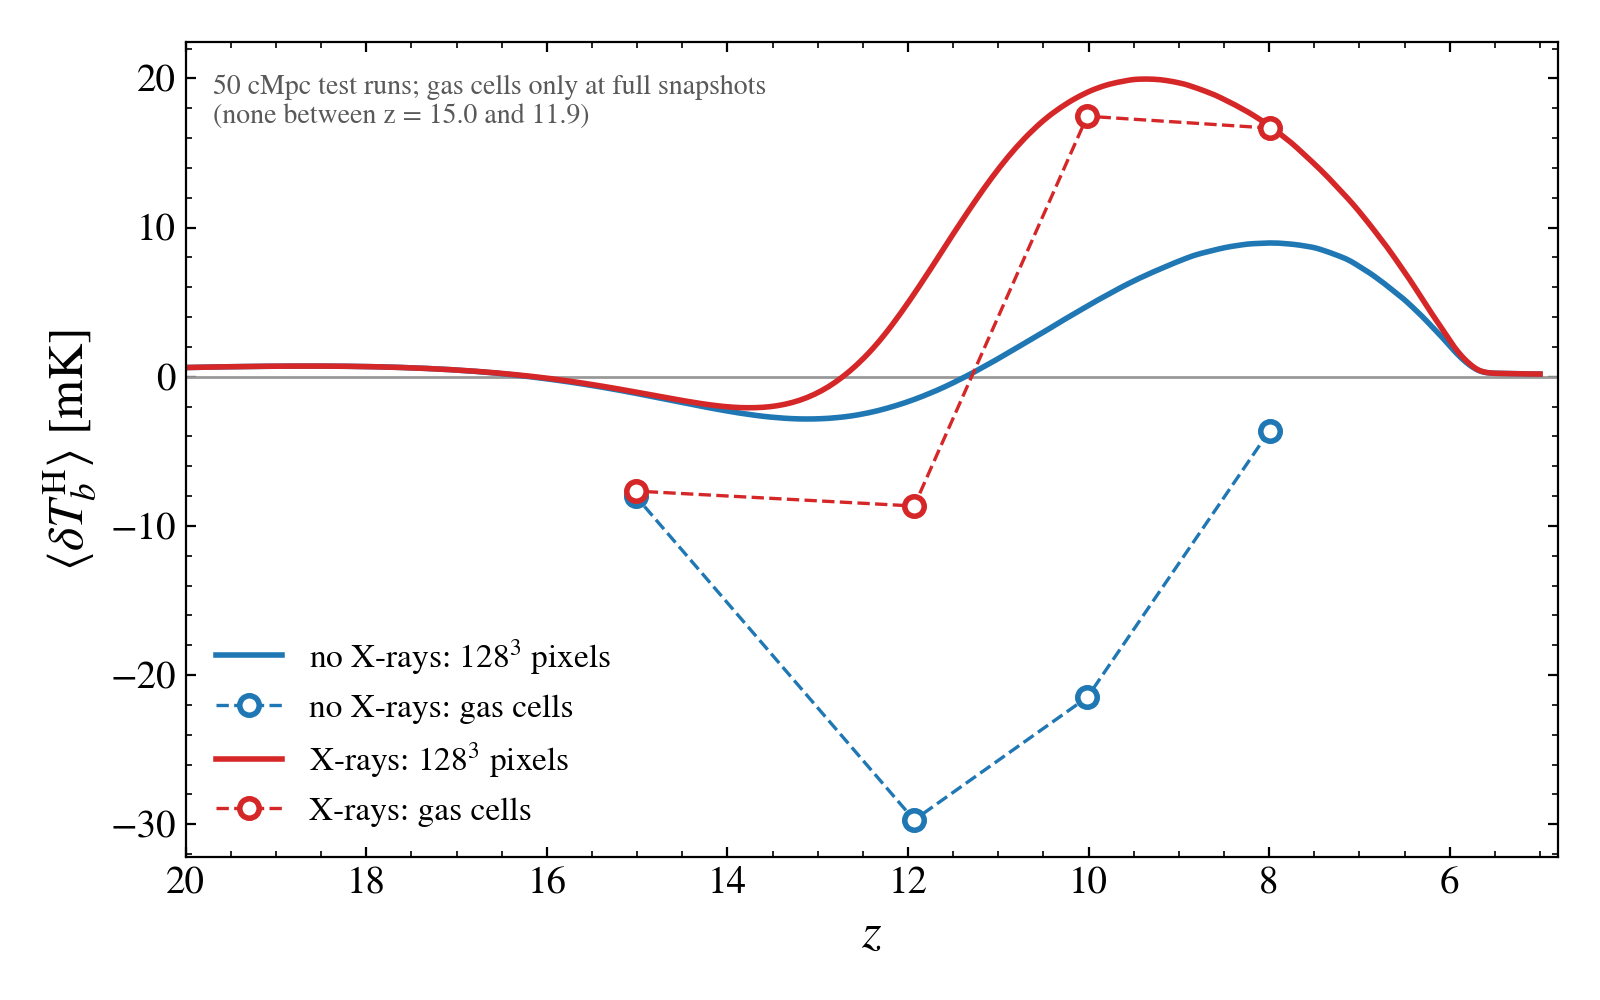
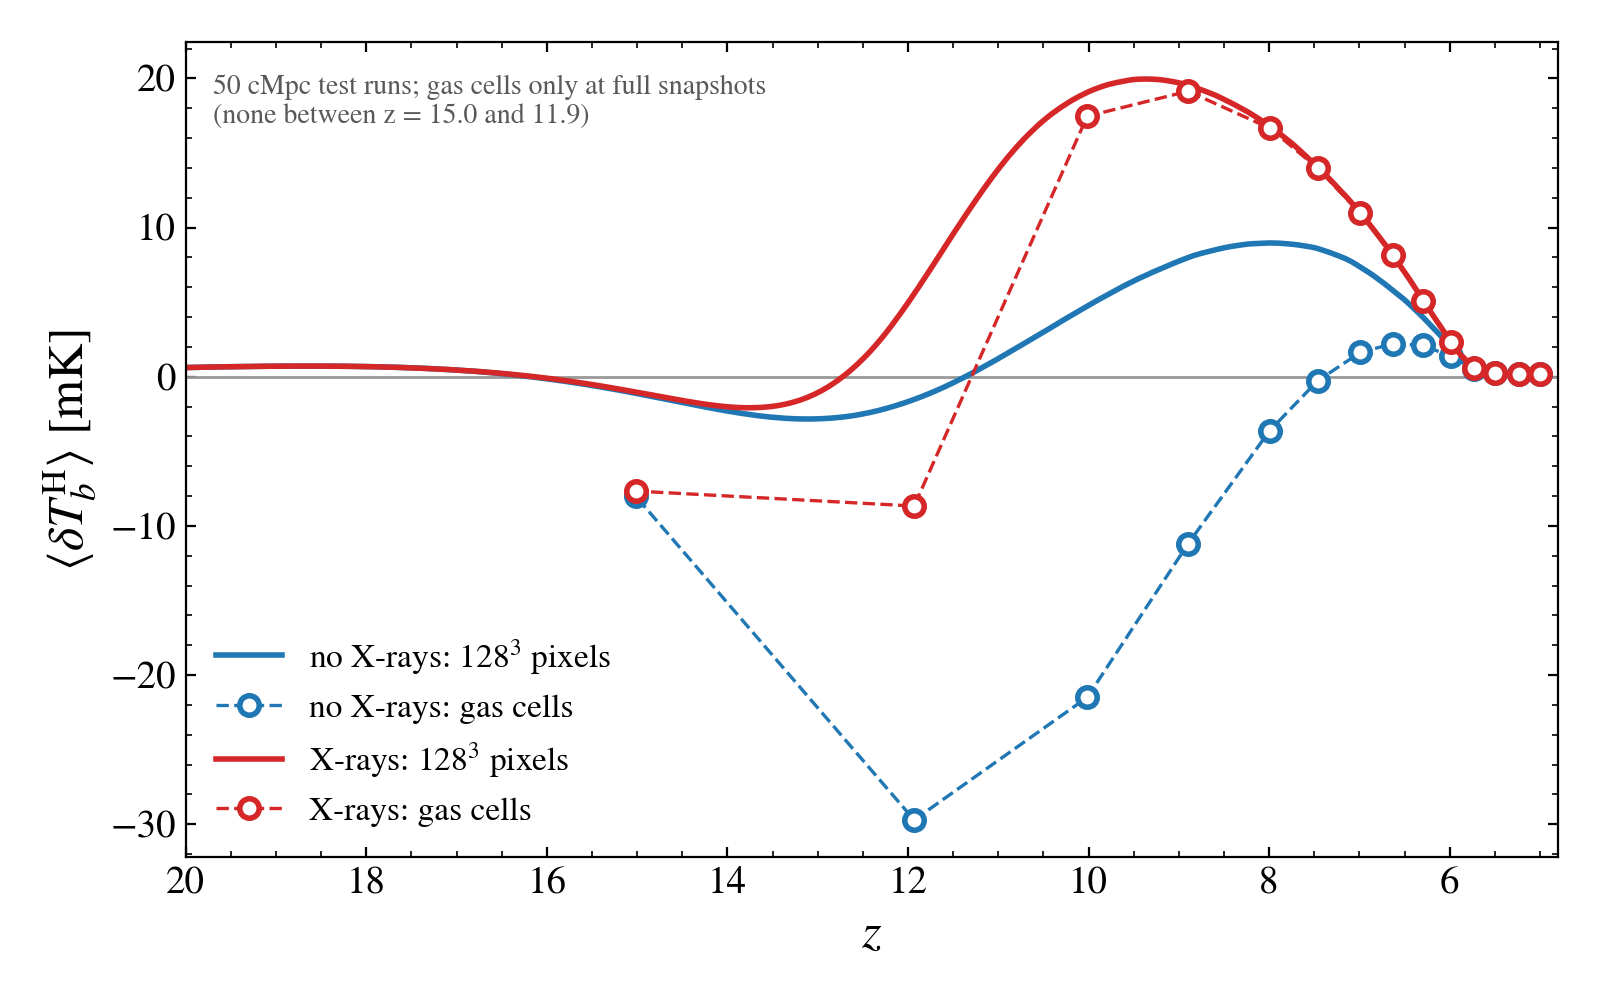
cell level updates

diff --git a/xray/plot_cells_global_xray.py b/xray/plot_cells_global_xray.py
@@ -4,7 +4,8 @@ plot_cells_global_xray.py
 21 cm global signal of the two 50 cMpc test runs (with / without MRT_XRAY): the 128^3 pixel maps at every render
 (data/compare_xray.csv, compare_xray.py) as lines, and the gas-cell level (cells_Tb_xray.py: mean_cells_cell, tau_GP
 from the cell) at every full snapshot that has a $BASE/<run>/cells_Tb/cells_Tb_NNN.npz, as markers. Run on ORCD to read
-the npz files; without them (e.g. on a laptop) it falls back to the four pilot values of NOTES.md (job 29467469).
+the npz files; without them (e.g. on a laptop) it reads data/cells_Tb_xray_global.csv (the gas-cell means of all 14 full
+snapshots per run, taken from the task logs of jobs 29467469 and 29598529), else the four pilot values of NOTES.md.
 Writes data/xray_cells_global.png. Quick look (user, 2026-11-18).
 
   python plot_cells_global_xray.py [--base /orcd/data/mvogelsb/004/chcho/xray]
@@ -45,6 +46,11 @@ def main():
         ax.plot(df["z"], df[col], color=c, lw=2, label=f"{lab}: $128^3$ pixels")
         cc = cells(a.base, run)
         src = "npz"
+        tab = os.path.join(HERE, "data", "cells_Tb_xray_global.csv")
+        if not cc and os.path.exists(tab):
+            t = pd.read_csv(tab)
+            t = t[t["run"] == run]
+            cc, src = dict(zip(t["z"], t["cells_mK"])), "data/cells_Tb_xray_global.csv"
         if not cc:
             cc, src = PILOT[run], "NOTES.md pilot values"
         zc = np.array(sorted(cc)); tc = np.array([cc[z] for z in zc])

diff --git a/JALPHA_NOTES.md b/JALPHA_NOTES.md
@@ -320,7 +320,7 @@ Test, on a mock render (N = 32) against an independent Python calculation:
 8. **21 cm downstream on the SPIN_MODEL 1 maps (started 2026-11-16, user):** steps (1) H VIDs → (2) H light cone → (3) light-cone PS → (4) notebooks (`VID.ipynb`, `maps.ipynb`, `fan_diagram.ipynb`) and figures. (1) `run_vid.sh` now takes LINE / MAPS / OUT from the environment, H defaulting to `H_real_wf` → `VID/H_wf` (old VIDs kept in `VID/H`; commit d4f142b); job 29349931, **done** (8 tasks COMPLETED 0:0, 20–26 min each, no failures; 610 files = 305 × VID + stats; `stats_H.csv` 305 snapshots, z = 29.43–3.00); new vs old (VID/H): mean +0.6 / +7.1 / +17.0 / +9.8 / +2.5 / −0.3 / −0.2 / 0.0% at z = 19.9 / 17.0 / 15.0 / 14.0 / 13.0 / 12.0 / 10.0 / ≤ 8 (= the global-signal change), std −0.3 / −1.8 / −4.5 / −4.5 / −3.1 / −1.2 / −0.1 / 0.0% (variance −9% at z ≈ 14–15, as Δ²), skewness +1.41 → +1.69 (z = 15), +0.39 → +0.57 (14), +0.03 → +0.13 (13), unchanged at z ≤ 10; BC +0.033 at most (z = 15). The paper's H VID figures use z = 10–5 (`VID.ipynb` cells 4, 6: snapshots 156–406), where old and new agree to ≤ 0.2%: they will not change visibly). (2) H light cone: job 29356253 (`OUT_DIR=.../lightcone_wf LINES=H`, spin model 1; He stays in `lightcone/`; 6.4 TB free); pending on 2026-11-16 afternoon: ReqNodeNotAvail, reserved for maintenance; starts by itself afterwards, resumable). **Done 2026-11-17** (COMPLETED 0:0, 10 h 37 min, H only; 5896 / 5896 slices; `lightcone_wf/lightcone_dTb_H.hdf5`): band means [mK] 0.2127 (z = 3.5), 0.16419 (4.5), 0.63692 (5.5), 7.0363 (6.5), 14.313 (7.5), 18.866 (8.5), 20.586 (9.5), 18.119 (11), 6.8875 (13), 1.4106 (15); vs the SPIN_MODEL 0 cone: identical at z = 3.5 (0.2127), +7.5% at z = 15 (1.3118 → 1.4106; the maps: +17%). (3) **Light-cone PS on the SPIN_MODEL 1 cone: done 2026-11-18** (job 29490597, COMPLETED, 43 min, MaxRSS 26.8 GB; `lightcone_wf/lightcone_ps_H.hdf5`; all 10 bands, both depths, against `H_real_wf`). Cone / maps, median of the bins (depth 150, k = 0.3–1 | depth 338.3, k = 0.3–1 | depth 150, k > 3): z = 3.5–9.5 identical to the SPIN_MODEL 0 run to all printed digits (0.901 | 0.936 | 0.945 … 1.007 | 1.044 | 0.927); z = 11: 0.960 | 0.965 | 0.920 (before 0.958 | 0.965 | 0.919); z = 13: 0.930 | 0.906 | 0.852 (0.920 | 0.894 | 0.845); z = 15: 0.976 | 1.044 | 0.858 (0.963 | 1.029 | 0.849). So the cone's Δ² follows the maps' SPIN_MODEL 1 change to ≤ 1.5% in the ratio; the reading of the first run (pixel smoothing at k > 3, light-cone effect at depth 338.3 and low k) is unchanged. The cone / maps check of the band means (`check_lightcone_tb.py`) was not run (optional; user, 2026-11-17). (4) **Notebooks repointed (2026-11-18), not yet rerun:** `fan_diagram.ipynb`: **the paper fan figure is cell 1's `plot_rlc` (`rlc_fan.png`; user, 2026-11-18); new cell 20 = cell 1 unchanged except the δT_b block**, which reads the production cones (δT_b^H `lightcone_wf`, stops unless `spin_model` = 1; δT_b^He `lightcone`) at the same row (SliceIndex) and slices (edge nearest z = 20 to the end of the inner run), checked edge by edge, instead of recomputing from `LUMINA_ALL.csv` with J(z)(1+δ); saves `rlc_fan_prod.png`. Mock-tested: the plotted δT_b equals the files' row; the layout renders. (Cell 1's own quirk, kept: the concatenated edges hold the shared z = 4.753 edge twice and the last edge is dropped, so the inner strip is drawn one slice, ~1.3 cMpc/h, outwards.) Cell 18 (2026-10-27, radius linear in z) is not the paper figure; `VID.ipynb` reads `H_real_wf` and `VID/H_wf`; `maps.ipynb` reads `H_real_wf`. **3.46 cm maps from the gas cells (user, 2026-11-18):** `maps.ipynb` cell 7 now draws the gas-cell-level maps (`cell_test*/RIN_cell_He_NNN.hdf5`, 136 from `cellmap_He_136.hdf5:dTb_cell`) at full snapshots 66, 80, 97, 116, 126, 136, 146, 158 (z = 8.00, 6.99, 5.99, 5.00, 4.50, 4.00, 3.50, 3.00; renders 209, 256, 326, 406, 452, 501, 582, 705, i.e. the 640³ panels' renders with 255 → 256 and 325 → 326), z from the files; same grid and index order as the production maps; mock-tested. New `maps.ipynb` cell 9 (user, 2026-11-18): x_HeII = `HeII_VolumeFraction` / y from the 640³ renders at the same renders (209, 256, 326, 406, 452, 501, 582, 705), the layout of the x_HI figure (cell 5), log scale 10⁻⁴–1 (`N_DECADES`), viridis, prints percentiles; renders, not gas cells, because x_HeII is a linear volume average (the gas-cell map would be the same up to the deposit scheme), unlike δT_b^He. Mock-tested (plotted field, clip, All-file fallback). Other He figures (PS, VID, light cone) are still the 640³ maps. The VID and map figures use snapshots 156–406 (z = 10–5), where SPIN_MODEL 1 changes δT_b by ≤ 0.5%: no visible change expected; the fan figure changes at z ≳ 12. Still on pre-production inputs (item 4): `visual.ipynb` and the other notebooks listed there. Before any `run_21cm.sh` job: `bash run_21cm.sh compile` once (stored compile flags).
 9. **Lumina's `MinGasTemp`: 5 K (checked 2026-11-16).** **Lumina: `MinGasTemp = 5` K too** (snapshot `Parameters` group, full snapshots 036 and 136, both runs; `InitGasTemp` 54.17 K; checked 2026-11-16; no param file found within depth 2 of the Flagship run directories). The X-ray test runs have the same floor, and at the gas-cell level ~33% of their neutral H I sits at it at z = 15 (`xray/NOTES.md`; the X-ray run with Lumina's model is identical to the no-X-ray run at z = 15). So the floor biases the coldest gas and the cosmic-dawn absorption warm in the main maps (§5); **decided 2026-11-16: option A** (§6.3; options given 2026-11-16: A, add the floor to the z ≳ 10 upper-limit statement; B, A plus ⟨δT_b⟩ at z = 15 from the 024 gas cells with the floored void cells at their adiabatic T, if `cells_T_024.npz` holds enough per-cell information). Estimate: at z = 15 the floored gas (~1/3 of the H I) absorbs 20–35% less than adiabatic gas would at full coupling; coupling there is partial, so the global effect is smaller (not computed); the floor binds mainly at z ≈ 13–17 in Lumina (X-rays heat the voids to 12–13 K by z = 12).
 10. **No-heating reference: INVALID, to be redone (user, 2026-11-16).** The user judged the existing analysis completely wrong: the per-pixel-anchor maps (`Tb_maps_prod/H_real_tkref1e-3_pix0`, jobs 26334741 + 26374968), the Eq. 27 version (job 25971016), their global tables (§7), the T_ref side of `check_ref_T.py`, and everything inferred from them (coupling strength from the reference / fully coupled ratio, trough position at z ≈ 9–10, the "−130 mK below the fiducial", bounds on a gas-cell δT_b). Do not cite or reason from them. Unaffected: the fiducial maps, fiducial pixel temperatures, the X-ray test gas-cell results (`xray/NOTES.md`). Method of the redo: user's decision, to be revisited.
-11. **Lumina gas-cell 21 cm δT_b (user, 2026-11-17), after the X-ray pilot (`xray/NOTES.md`: cells absorb ×7 more than 128³ pixels at z = 15, sign flip at z = 12 with X-rays, cells ≈ pixels at z ≤ 10 with X-rays).** `test_cells_Tb.py --line H` (spin model 1, τ_GP from the cell's n_HI), full snapshots 11, 17, 24, 36, 48 (z = 22.97, 18.31, 15.02, 11.93, 10.01). 36 and 48 match renders 114 and 156 exactly; 11, 17, 24 fall between renders (dz = −0.046, +0.074, −0.031; 0.4–1.2 Myr): **decided 2026-11-17 (user): J linear in z between the bracketing renders** (option B; new `--J-b`, `--render-snap-b`, `--max-dz`, commit 121b07a, mock-tested): 11: renders 19/20, weight of 20 0.201, J_20/J_19 1.402; 17: 45/44, 0.499, 0.864; 24: 73/74, 0.334, 1.083 (interpolated J vs the nearest render alone +8.1 / −6.8 / +2.8%; J files' Redshift attributes = render z; AGN J = 0). Pixel reference: the nearest render. Speed (timing task, 160-way split, cancelled): 5.8×10⁴ rows/s per task, 2.6× slower than the He scans (the T_S solve). **Jobs (He job layout, 32 tasks × 2 cores, slim grids, 64 cubes, `--time=48:00:00`, ~32 h per task):** 36 → 29490272, 48 → 29490479, 24 → 29490485, 17 → 29490486, 11 → 29490487; output `cell_test_H_NN`. Merges (`run_cells_merge.sh`, same settings, `--time=48:00:00`: the H ladder needs a T_S solve per level), queued `afterok` on each scan (2026-11-18): 36 → 29550185, 48 → 29550195, 24 → 29550199, 17 → 29550201, 11 → 29550202. Task 0 checks: axis order (0,1,2) at 0.084 / 0.073 against 0.002 (36 / 24); 24's J line as planned (weight of 74 0.3340, ⟨J_b⟩/⟨J_a⟩ 1.0826); projected 24 h (36) and 32 h (24) per task; all 160 tasks running by 2026-11-18. A first 160-task submission (29478737, 29489890/93/936) was cancelled: too many cores for the shared partition. **Added (user, 2026-11-18): full snapshots 066 (z = 7.995, render 209 exactly) and 057 (z = 8.897, render 184 exactly)**, production J at those renders, same settings (H, above, slim grids, 64 cubes, 32 tasks, 48 h, `ou_mki`), output `cell_test_H_66`, `cell_test_H_57`. Purpose: overlap with the 640³ maps where the plan switches from gas cells (z ≥ 10) to the maps (z ≤ 8): in the X-ray test run (Lumina's physics), cells / 64³ pixels (Lumina's pixel size) = 0.87 at z = 10.0, 0.985 at z = 8.0 (xray/NOTES.md). **Plan (user, 2026-11-18): Lumina 21 cm from the gas cells at high z and the 640³ maps at low z (saturated, T_S ≫ T_γ), the boundary set by these overlap snapshots and marked in the figures.** Why H scans are slower than He (5.8×10⁴ rows/s per task, ~30 h per task, 2.6× He): spin model 1 has no closed-form T_S (S̃_α and T_c depend on T_S), so every cell is solved by bisection in ln T_S (tb_physics.solve_ts_wf, to 10⁻¹⁴, ~50 steps); He's T_S is closed form. The merge's resolution ladder repeats the solve at each level.
+11. **Lumina gas-cell 21 cm δT_b (user, 2026-11-17), after the X-ray pilot (`xray/NOTES.md`: cells absorb ×7 more than 128³ pixels at z = 15, sign flip at z = 12 with X-rays, cells ≈ pixels at z ≤ 10 with X-rays).** `test_cells_Tb.py --line H` (spin model 1, τ_GP from the cell's n_HI), full snapshots 11, 17, 24, 36, 48 (z = 22.97, 18.31, 15.02, 11.93, 10.01). 36 and 48 match renders 114 and 156 exactly; 11, 17, 24 fall between renders (dz = −0.046, +0.074, −0.031; 0.4–1.2 Myr): **decided 2026-11-17 (user): J linear in z between the bracketing renders** (option B; new `--J-b`, `--render-snap-b`, `--max-dz`, commit 121b07a, mock-tested): 11: renders 19/20, weight of 20 0.201, J_20/J_19 1.402; 17: 45/44, 0.499, 0.864; 24: 73/74, 0.334, 1.083 (interpolated J vs the nearest render alone +8.1 / −6.8 / +2.8%; J files' Redshift attributes = render z; AGN J = 0). Pixel reference: the nearest render. Speed (timing task, 160-way split, cancelled): 5.8×10⁴ rows/s per task, 2.6× slower than the He scans (the T_S solve). **Jobs (He job layout, 32 tasks × 2 cores, slim grids, 64 cubes, `--time=48:00:00`, ~32 h per task):** 36 → 29490272, 48 → 29490479, 24 → 29490485, 17 → 29490486, 11 → 29490487; output `cell_test_H_NN`. Merges (`run_cells_merge.sh`, same settings, `--time=48:00:00`: the H ladder needs a T_S solve per level), queued `afterok` on each scan (2026-11-18): 36 → 29550185, 48 → 29550195, 24 → 29550199, 17 → 29550201, 11 → 29550202. Task 0 checks: axis order (0,1,2) at 0.084 / 0.073 against 0.002 (36 / 24); 24's J line as planned (weight of 74 0.3340, ⟨J_b⟩/⟨J_a⟩ 1.0826); projected 24 h (36) and 32 h (24) per task; all 160 tasks running by 2026-11-18. A first 160-task submission (29478737, 29489890/93/936) was cancelled: too many cores for the shared partition. **Added (user, 2026-11-18): full snapshots 066 (z = 7.995, render 209 exactly) and 057 (z = 8.897, render 184 exactly)**, production J at those renders, same settings (H, above, slim grids, 64 cubes, 32 tasks, 48 h, `ou_mki`), output `cell_test_H_66`, `cell_test_H_57`. Purpose: overlap with the 640³ maps where the plan switches from gas cells (z ≥ 10) to the maps (z ≤ 8): in the X-ray test run (Lumina's physics), cells / 64³ pixels (Lumina's pixel size) = 0.87 at z = 10.0, 0.985 at z = 8.0 (xray/NOTES.md). **Plan (user, 2026-11-18): Lumina 21 cm from the gas cells at high z and the 640³ maps at low z (saturated, T_S ≫ T_γ), the boundary set by these overlap snapshots and marked in the figures.** Why H scans are slower than He (5.8×10⁴ rows/s per task, ~30 h per task, 2.6× He): spin model 1 has no closed-form T_S (S̃_α and T_c depend on T_S), so every cell is solved by bisection in ln T_S (tb_physics.solve_ts_wf, to 10⁻¹⁴, ~50 steps); He's T_S is closed form. The merge's resolution ladder repeats the solve at each level. **048 (z = 10.014, render 156) done (scan 29490479, 32/32 in 24–25 h; merge 29550195 running, whole-box part from its log, 2026-11-19):** all 2.158×10¹¹ cells, gas volume per pixel total 1.000000 (median 1.0002), no empty pixels. ⟨δT_b⟩ 640³ production +20.068 mK, gas cells +17.440 mK: **production / cell = 1.151** (the cell map at 640³ +17.425). P_production / P_cell: 0.48 (k = 0.02–0.04), 0.69 (0.09), 0.87 (0.18), 1.01 (0.38), 1.20 (0.77), 1.24–1.26 (1.6–3.3 h/cMpc); r ≥ 0.98 at every k. **Same as the X-ray test run (Lumina's physics) at Lumina's pixel size:** 64³ +20.066 vs cells +17.467 mK at the same z. So at z = 10 the 640³ maps are 15% high in the mean and miss half the large-scale power: z = 10 belongs on the gas-cell side of the plan; the boundary is set by 057 / 066. The merge's resolution ladder (cubes) is still running. **036 (z = 11.931, render 114) done (scan 29490272, 32/32 in 23.6–37.9 h; merge 29550185 running, whole-box part, 2026-11-19):** all 2.160×10¹¹ cells, gas volume 1.000000, no empty pixels. ⟨δT_b⟩ 640³ production **+10.719 mK (emission), gas cells −6.806 mK (absorption): the sign flips** (cell map at 640³ −6.822). P_production / P_cell 0.33 / 0.26 / 0.30 (k = 0.02 / 0.04 / 0.09), 0.46 (0.18), 0.58 (0.38), 0.74 (0.77), 0.94–1.06 (1.6–3.3); r 0.99 on large scales falling to 0.90 at k ≳ 1.6. X-ray test run at the same z, 64³ pixels: +10.59 vs cells −8.67 mK. So the 640³ maps go from 15% high (z = 10) to the wrong sign (z = 12). **024 (z = 15.016, J linear between renders 73 / 74, weight of 74 0.334) done (scan 29490485, 32/32 in 25.4–37.0 h; merge 29550199 running, whole-box part, 2026-11-19):** all 2.160×10¹¹ cells, gas volume 1.000000, no empty pixels. ⟨δT_b⟩ 640³ **+1.027 mK (emission), gas cells −6.778 mK (absorption)** (X-ray test run, same z, 64³: +1.09 vs cells −7.66). P_production / P_cell and r: 0.14 / 0.007 (k = 0.02), 0.56 / 0.11 (0.04), 1.23 / 0.42 (0.09), 1.69 / 0.81 (0.18), 1.47 / 0.95 (0.38), 1.20 / 0.97 (0.77), 1.02 / 0.96 (1.6), 0.94 / 0.94 (3.3). **At z = 15 the 640³ large-scale pattern is uncorrelated with the gas cells (r ≈ 0 at k ≲ 0.04)**, not only off in amplitude (at z = 10–12 r ≥ 0.98 there). Possible reason (not checked): absorbing cold voids and emitting dense gas cancel on large scales in the cells, while pixel mixing removes the void absorption. **011 (z = 22.97, J linear between renders 19 / 20) done (scan 29490487, 32/32 in 23.1–33.1 h; merge 29550202 running, whole-box part, 2026-11-19):** ⟨δT_b⟩ 640³ **−0.256 mK (absorption), gas cells +0.555 mK (emission)**: the sign flips the other way (weak Lyα coupling; collisionally coupled warm dense gas emits, pixel mixing turns it into net absorption). P_production / P_cell 1.10 / 1.17 / 1.17 / 1.19 / 1.27 / 1.37 / 1.50 / 1.60 at k = 0.02 / 0.04 / 0.09 / 0.18 / 0.38 / 0.77 / 1.6 / 3.3; r ≥ 0.98. **X-ray test run, 10 more full snapshots (job 29598529, 2026-11-19; xray/NOTES.md):** with X-rays (Lumina's physics), gas cells / 64³ pixels 0.964 (z = 8.90), 0.991 (7.46), 0.994 (6.99), 0.995 (6.63), 0.996 (6.29, 5.99), 0.988 (5.73), 0.969 (5.50), 0.960 (5.23): the pixels are good to ≤ 1% at z = 7.5–6 (support for the low-z side of the plan).
 
 ### 6.2 Decisions still open
 - **Helium IGM absorption** (implemented, 4.5):

diff --git a/xray/NOTES.md b/xray/NOTES.md
@@ -170,4 +170,5 @@ Reading:
     - X-rays: ⟨1 − T_γ/T_S⟩_HI = −0.29, ⟨S̃_α⟩_HI 0.88, T_S < T_γ 0.445. Floor gas only −1.3 mK; the X-ray-warmed voids (12–13 K) carry −15.9 mK (5.5–35 K); emitting +8.6. So with Lumina's physics the z ≈ 12 trough is set by X-ray heating of the voids (1 − T_γ/T_K ≥ −1.8) and partial coupling; the floor matters only before X-ray heating (z ≈ 15, where both runs agree: −8.0 / −7.7 mK).
     - Δ² cells / render pixels at 128³: no X-rays 0.88–1.05 (r ≥ 0.79); X-rays 1.71 at k = 0.23 falling to ≈ 1 at k ≈ 2 (r ≥ 0.88).
   - Only four snapshots: the cell-level trough minimum between z = 15 and 10 is not resolved (no full snapshot between 15.02 and 11.93).
+- **Ten more full snapshots (057 … 116, z = 8.90 → 5.00), both runs (job 29598529, 20/20 COMPLETED, 2026-11-19; `run_cells_Tb_xray.sh` with SNAPS_X / RENDERS_X).** Checks: gas mass cells / render 1.000000, cell volumes / box³ 1.000000. Gas cells / 64³ pixels, with X-rays: 0.964 (8.90), 0.991 (7.46), 0.994 (6.99), 0.995 (6.63), 0.996 (6.29), 0.996 (5.99), 0.988 (5.73), 0.969 (5.50), 0.960 (5.23); all H I emitting (T_S > T_γ). Without X-rays the cells still absorb at z = 8.90 (−11.19 against +14.00 mK at 64³; absorbing −21.5, emitting +10.3) and are near zero at 7.46 (−0.27 against +11.41). Figure: `plot_cells_global_xray.py` (reads the npz on ORCD).
 
